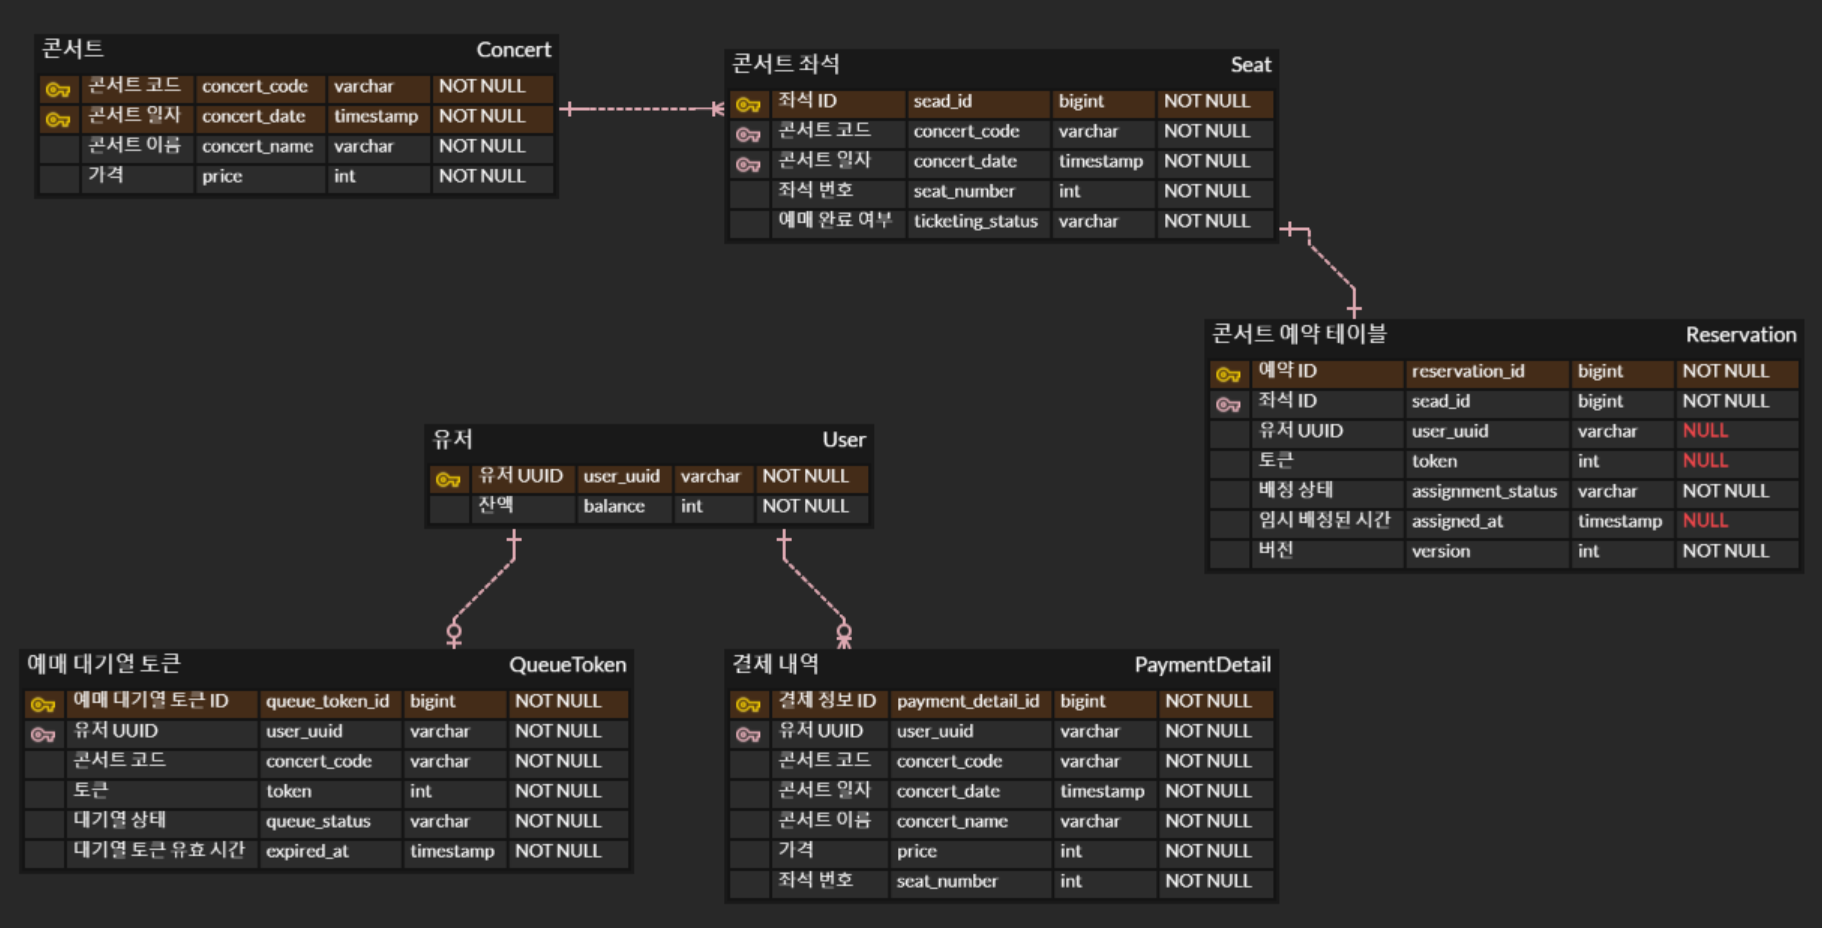
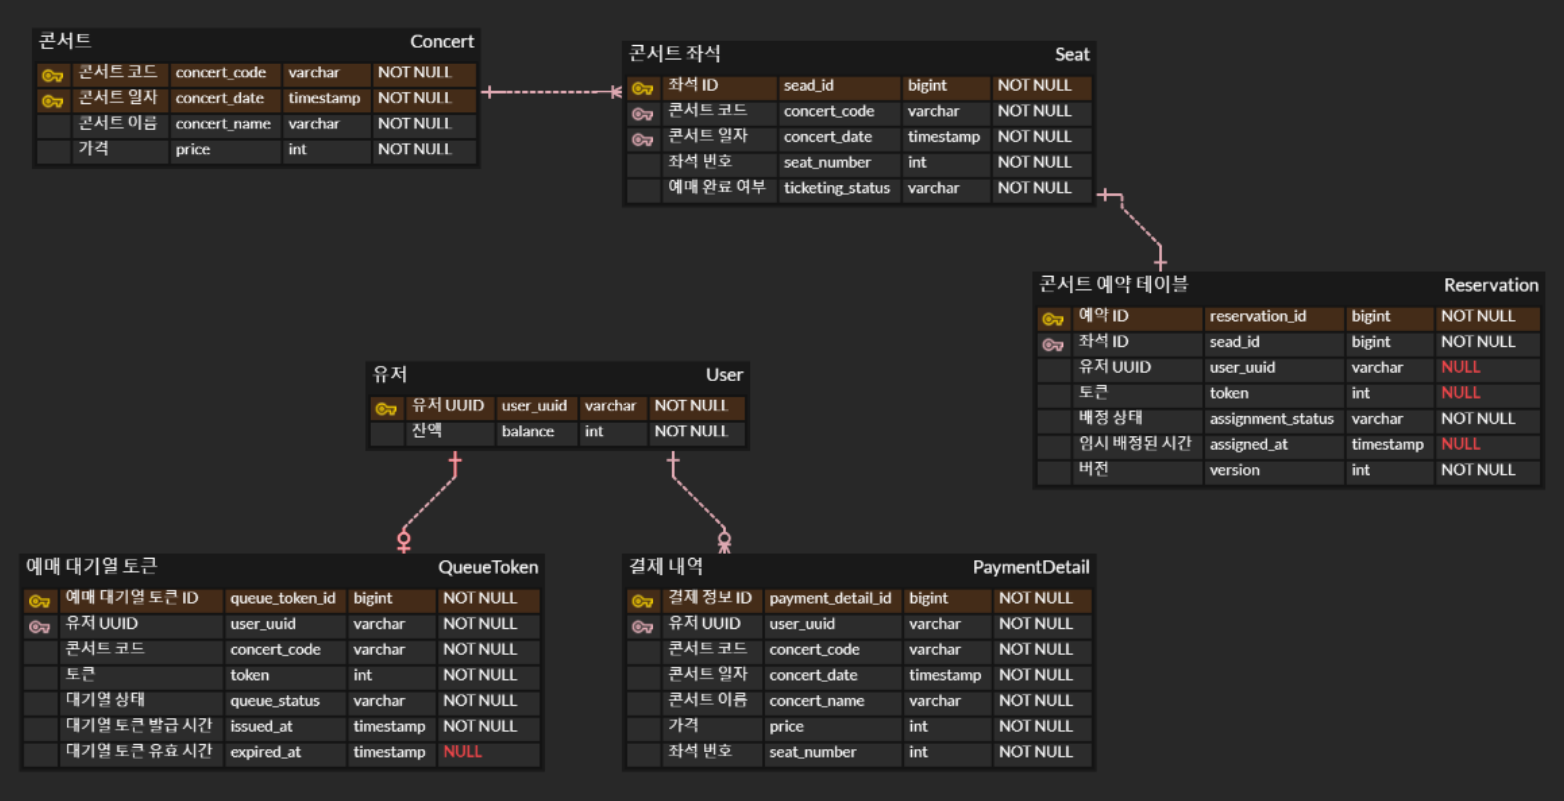
수정

diff --git a/chapter2/ticketing/src/main/java/com/example/ticketing/api/payment/usecase/PayUseCase.java b/chapter2/ticketing/src/main/java/com/example/ticketing/api/payment/usecase/PayUseCase.java
@@ -5,8 +5,10 @@ import com.example.ticketing.domain.concert.component.ConcertReservationReader;
 import com.example.ticketing.domain.concert.component.ConcertReservationValidator;
 import com.example.ticketing.domain.concert.entity.Concert;
 import com.example.ticketing.domain.concert.entity.Reservation;
+import com.example.ticketing.domain.concert.entity.Seat;
 import com.example.ticketing.domain.payment.component.PaymentDetailStore;
 import com.example.ticketing.domain.payment.entity.PaymentDetail;
+import com.example.ticketing.domain.token.component.QueueTokenStore;
 import com.example.ticketing.domain.user.component.UserReader;
 import com.example.ticketing.domain.user.component.UserValidator;
 import com.example.ticketing.domain.user.entity.User;
@@ -24,6 +26,7 @@ public class PayUseCase {
     private final ConcertReservationReader concertReservationReader;
     private final ConcertReservationValidator concertReservationValidator;
     private final PaymentDetailStore paymentDetailStore;
+    private final QueueTokenStore queueTokenStore;
 
     public PaymentDetailResponse execute(String userUUID) {
         // 1. 유저 존재 여부 체크
@@ -33,10 +36,15 @@ public class PayUseCase {
         // 3. 임시 배정된 시간이 만료되었는지 체크
         concertReservationValidator.isExpired(findReservation.getAssignedAt());
         // 4. 콘서트 가격과 잔액 비교
-        Concert findConcert = findReservation.getSeat().getConcert();
+        Seat findSeat = findReservation.getSeat();
+        Concert findConcert = findSeat.getConcert();
         userValidator.isLessThanPrice(findConcert.getPrice(), findUser.getBalance());
         // 5. 결제 진행
         PaymentDetail savePaymentDetail = paymentDetailStore.savePaymentDetail(PaymentDetail.createPaymentDetail(findUser, findConcert, findReservation));
+        // 6. 좌석 예매 완료 처리
+        findSeat.ticketingComplete();
+        // 7. 대기열 토큰 제거
+        queueTokenStore.removeQueueToken(findUser.getQueueToken());
 
         return PaymentDetailResponse.convert(savePaymentDetail);
     }

diff --git a/chapter2/ticketing/src/main/java/com/example/ticketing/api/concert/usecase/ReserveSeatUseCase.java b/chapter2/ticketing/src/main/java/com/example/ticketing/api/concert/usecase/ReserveSeatUseCase.java
@@ -2,7 +2,9 @@ package com.example.ticketing.api.concert.usecase;
 
 import com.example.ticketing.api.concert.dto.ReservationResponse;
 import com.example.ticketing.domain.concert.component.ConcertReader;
+import com.example.ticketing.domain.concert.component.ConcertReservationValidator;
 import com.example.ticketing.domain.concert.component.ConcertSeatReader;
+import com.example.ticketing.domain.concert.entity.Reservation;
 import com.example.ticketing.domain.concert.entity.Seat;
 import lombok.RequiredArgsConstructor;
 import org.springframework.stereotype.Service;
@@ -17,6 +19,7 @@ public class ReserveSeatUseCase {
 
     private final ConcertReader concertReader;
     private final ConcertSeatReader concertSeatReader;
+    private final ConcertReservationValidator concertReservationValidator;
 
     /**
      * 좌석 임시 배정
@@ -26,8 +29,11 @@ public class ReserveSeatUseCase {
         concertReader.findByConcertCodeAndDate(concertCode, concertDate);
         // 2. 좌석 존재 여부 및 예매 가능한 좌석인지 체크
         Seat findNotCompletedSeat = concertSeatReader.findNotCompletedSeat(concertCode, concertDate, seatNumber);
+        // 3. 예약이 가능한 좌석인지 체크
+        Reservation findReservation = findNotCompletedSeat.getReservation();
+        concertReservationValidator.isAvailableReservation(findReservation.getAssignedAt());
         // 3. 좌석 임시 배정
-        LocalDateTime assignedAt = findNotCompletedSeat.getReservation().assignment(userUUID, token);
+        LocalDateTime assignedAt = findReservation.assignment(userUUID, token); // Transaction 종료시 OptimisticLockException 발생 -> try-catch 필요
 
         return ReservationResponse.convert(concertCode, concertDate, seatNumber, assignedAt);
     }

diff --git a/chapter2/ticketing/src/main/java/com/example/ticketing/domain/token/entity/QueueToken.java b/chapter2/ticketing/src/main/java/com/example/ticketing/domain/token/entity/QueueToken.java
@@ -17,7 +17,7 @@ public class QueueToken {
     @GeneratedValue(strategy = GenerationType.IDENTITY)
     private Long queueTokenId;
 
-    @ManyToOne(fetch = FetchType.LAZY)
+    @OneToOne(fetch = FetchType.LAZY)
     private User user;
 
     @Column
@@ -29,25 +29,29 @@ public class QueueToken {
     @Column
     @Enumerated(value = EnumType.STRING)
     private QueueStatus status;
-    
+
+    @Column
+    private LocalDateTime issuedAt;
+
     @Column
     private LocalDateTime expiredAt;
 
     @Builder
-    public QueueToken(Long queueTokenId, User user, String concertCode, int token, QueueStatus status, LocalDateTime expiredAt) {
+    public QueueToken(Long queueTokenId, User user, String concertCode, int token, QueueStatus status, LocalDateTime issuedAt, LocalDateTime expiredAt) {
         this.queueTokenId = queueTokenId;
         this.user = user;
         this.concertCode = concertCode;
         this.token = token;
         this.status = status;
+        this.issuedAt = issuedAt;
         this.expiredAt = expiredAt;
     }
 
     public static QueueToken createQueueToken(String concertCode, User user) {
-        LocalDateTime expiredAt = LocalDateTime.now().plusMinutes(10);
+        LocalDateTime issuedAt = LocalDateTime.now();
 
         int token = user.getUserUUID().hashCode();
-        token = 31 * token + expiredAt.hashCode();
+        token = 31 * token + issuedAt.hashCode();
         token = 31 * token + concertCode.hashCode();
 
         return QueueToken.builder()
@@ -55,7 +59,7 @@ public class QueueToken {
                 .concertCode(concertCode)
                 .token(token)
                 .status(QueueStatus.WAITING)
-                .expiredAt(expiredAt)
+                .issuedAt(issuedAt)
                 .build();
     }
 }

diff --git a/chapter2/ticketing/src/test/java/com/example/ticketing/domain/token/component/QueueTokenStoreTest.java b/chapter2/ticketing/src/test/java/com/example/ticketing/domain/token/component/QueueTokenStoreTest.java
@@ -27,10 +27,10 @@ class QueueTokenStoreTest {
         //given
         String concertCode = "IU_BLUEMING_001";
         String userUUID = "1e9ebe68-045a-49f1-876e-a6ea6380dd5c";
-        LocalDateTime expiredAt = LocalDateTime.now().plusMinutes(10);
+        LocalDateTime issuedAt = LocalDateTime.now();
 
         int token = userUUID.hashCode();
-        token = 31 * token + expiredAt.hashCode();
+        token = 31 * token + issuedAt.hashCode();
         token = 31 * token + concertCode.hashCode();
 
         QueueToken createQueueToken = QueueToken.builder()
@@ -39,7 +39,7 @@ class QueueTokenStoreTest {
                 .concertCode(concertCode)
                 .token(token)
                 .status(QueueStatus.WAITING)
-                .expiredAt(expiredAt)
+                .issuedAt(issuedAt)
                 .build();
 
         //when
@@ -51,6 +51,6 @@ class QueueTokenStoreTest {
         assertThat(result.getConcertCode()).isEqualTo(concertCode);
         assertThat(result.getToken()).isEqualTo(token);
         assertThat(result.getStatus()).isEqualTo(QueueStatus.WAITING);
-        assertThat(result.getExpiredAt()).isEqualTo(expiredAt);
+        assertThat(result.getIssuedAt()).isEqualTo(issuedAt);
     }
 }

diff --git a/chapter2/ticketing/src/test/java/com/example/ticketing/domain/token/repository/StubQueueTokenReaderRepository.java b/chapter2/ticketing/src/test/java/com/example/ticketing/domain/token/repository/StubQueueTokenReaderRepository.java
@@ -13,11 +13,11 @@ public class StubQueueTokenReaderRepository implements QueueTokenReaderRepositor
         if (!userUUID.equals("1e9ebe68-045a-49f1-876e-a6ea6380dd5c")) return Optional.empty(); // fake 일까?
 
         String concertCode = "IU_BLUEMING_001";
-        LocalDateTime expiredAt = LocalDateTime.of(2024, 4, 11, 13, 20, 35).plusMinutes(10);
+        LocalDateTime issuedAt = LocalDateTime.of(2024, 4, 11, 13, 20, 35);
 
 
         int token = userUUID.hashCode();
-        token = 31 * token + expiredAt.hashCode();
+        token = 31 * token + issuedAt.hashCode();
         token = 31 * token + concertCode.hashCode();
 
         return Optional.of(
@@ -27,7 +27,7 @@ public class StubQueueTokenReaderRepository implements QueueTokenReaderRepositor
                         .concertCode(concertCode)
                         .token(token)
                         .status(QueueStatus.IN_PROGRESS)
-                        .expiredAt(expiredAt)
+                        .issuedAt(issuedAt)
                         .build()
         );
     }

diff --git a/chapter2/ticketing/src/test/java/com/example/ticketing/domain/token/repository/StubQueueTokenStoreRepository.java b/chapter2/ticketing/src/test/java/com/example/ticketing/domain/token/repository/StubQueueTokenStoreRepository.java
@@ -11,10 +11,10 @@ public class StubQueueTokenStoreRepository implements QueueTokenStoreRepository 
     public QueueToken save(QueueToken createQueueToken) {
         String concertCode = "IU_BLUEMING_001";
         String userUUID = "1e9ebe68-045a-49f1-876e-a6ea6380dd5c";
-        LocalDateTime expiredAt = createQueueToken.getExpiredAt();
+        LocalDateTime issuedAt = createQueueToken.getIssuedAt();
 
         int token = userUUID.hashCode();
-        token = 31 * token + expiredAt.hashCode();
+        token = 31 * token + issuedAt.hashCode();
         token = 31 * token + concertCode.hashCode();
 
 
@@ -24,7 +24,12 @@ public class StubQueueTokenStoreRepository implements QueueTokenStoreRepository 
                 .concertCode(concertCode)
                 .token(token)
                 .status(QueueStatus.WAITING)
-                .expiredAt(expiredAt)
+                .issuedAt(issuedAt)
                 .build();
+    }
+
+    @Override
+    public void delete(QueueToken target) {
+
     }
 }

diff --git a/chapter2/ticketing/src/test/java/com/example/ticketing/domain/token/component/QueueTokenReaderTest.java b/chapter2/ticketing/src/test/java/com/example/ticketing/domain/token/component/QueueTokenReaderTest.java
@@ -27,10 +27,10 @@ class QueueTokenReaderTest {
         //given
         String concertCode = "IU_BLUEMING_001";
         String userUUID = "1e9ebe68-045a-49f1-876e-a6ea6380dd5c";
-        LocalDateTime expiredAt = LocalDateTime.of(2024, 4, 11, 13, 20, 35).plusMinutes(10);
+        LocalDateTime issuedAt = LocalDateTime.of(2024, 4, 11, 13, 20, 35);
 
         int token = userUUID.hashCode();
-        token = 31 * token + expiredAt.hashCode();
+        token = 31 * token + issuedAt.hashCode();
         token = 31 * token + concertCode.hashCode();
 
         //when
@@ -42,6 +42,6 @@ class QueueTokenReaderTest {
         assertThat(findQueueToken.getConcertCode()).isEqualTo("IU_BLUEMING_001");
         assertThat(findQueueToken.getToken()).isEqualTo(token);
         assertThat(findQueueToken.getStatus()).isEqualTo(QueueStatus.IN_PROGRESS);
-        assertThat(findQueueToken.getExpiredAt()).isEqualTo(expiredAt);
+        assertThat(findQueueToken.getIssuedAt()).isEqualTo(issuedAt);
     }
 }

diff --git a/chapter2/ticketing/src/main/java/com/example/ticketing/api/payment/controller/PaymentController.java b/chapter2/ticketing/src/main/java/com/example/ticketing/api/payment/controller/PaymentController.java
@@ -14,14 +14,12 @@ import java.time.format.DateTimeFormatter;
 @RequestMapping("/api/v1/payments")
 public class PaymentController {
 
-    private final DateTimeFormatter formatter = DateTimeFormatter.ofPattern("yyyy-MM-dd HH:mm:ss");
-
     @PostMapping
     public ResponseEntity<ConcertApiResponse<?>> payment(
             @RequestHeader("Authorization") int token,
             @RequestBody String userUUID
     ) {
-        String concertDate = LocalDateTime.of(2024, 4, 20, 15, 0, 0).format(formatter);
+        LocalDateTime concertDate = LocalDateTime.of(2024, 4, 20, 15, 0, 0);
         PaymentDetailResponse result = new PaymentDetailResponse(userUUID, "아이유 블루밍 콘서트", concertDate, 25, 50000);
 
         return ResponseEntity.ok(ConcertApiResponse.of(result));

diff --git a/chapter2/ticketing/src/main/java/com/example/ticketing/domain/user/entity/User.java b/chapter2/ticketing/src/main/java/com/example/ticketing/domain/user/entity/User.java
@@ -1,9 +1,7 @@
 package com.example.ticketing.domain.user.entity;
 
-import jakarta.persistence.Column;
-import jakarta.persistence.Entity;
-import jakarta.persistence.Id;
-import jakarta.persistence.Table;
+import com.example.ticketing.domain.token.entity.QueueToken;
+import jakarta.persistence.*;
 import lombok.AccessLevel;
 import lombok.Builder;
 import lombok.Getter;
@@ -21,6 +19,9 @@ public class User {
 
     @Column
     private int balance;
+
+    @OneToOne(mappedBy = "user")
+    private QueueToken queueToken;
 
     @Builder
     public User(String userUUID, int balance) {

diff --git a/chapter2/ticketing/src/test/java/com/example/ticketing/domain/concert/component/ConcertReservationModifierTest.java b/chapter2/ticketing/src/test/java/com/example/ticketing/domain/concert/component/ConcertReservationModifierTest.java
@@ -29,10 +29,10 @@ class ConcertReservationModifierTest {
 
         String userUUID = "1e9ebe68-045a-49f1-876e-a6ea6380dd5c";
         String concertCode = "IU_BLUEMING_001";
-        LocalDateTime expiredAt = LocalDateTime.of(2024, 4, 11, 13, 20, 35).plusMinutes(10);
+        LocalDateTime issuedAt = LocalDateTime.of(2024, 4, 11, 13, 20, 35);
 
         int token = userUUID.hashCode();
-        token = 31 * token + expiredAt.hashCode();
+        token = 31 * token + issuedAt.hashCode();
         token = 31 * token + concertCode.hashCode();
 
         //when

diff --git a/chapter2/ticketing/src/main/java/com/example/ticketing/domain/concert/component/ConcertReservationValidator.java b/chapter2/ticketing/src/main/java/com/example/ticketing/domain/concert/component/ConcertReservationValidator.java
@@ -13,4 +13,13 @@ public class ConcertReservationValidator {
         }
     }
 
+    /**
+     * assignedAt이 현재 시간보다 이후 시간이라면 임시 배정할 수 없는 좌석
+     */
+    public void isAvailableReservation(LocalDateTime assignedAt) {
+        if (assignedAt != null && assignedAt.isAfter(LocalDateTime.now())) {
+            throw new RuntimeException("임시 배정을 진행할 수 없는 좌석입니다.");
+        }
+    }
+
 }

diff --git a/chapter2/ticketing/src/main/java/com/example/ticketing/domain/concert/component/ConcertReservationModifier.java b/chapter2/ticketing/src/main/java/com/example/ticketing/domain/concert/component/ConcertReservationModifier.java
@@ -17,6 +17,7 @@ public class ConcertReservationModifier {
 
     /**
      * 좌석 예매 요청 - 좌석 임시 배정
+     * TODO [AssignmentStatus 제거 및 Validator의 isAvaliableReservation 활용]
      */
     public Reservation reserveSeat(Long seatId, String userUUID, int token) {
         Reservation findReservation = readerRepository.findNotAssignedBySeatId(seatId, AssignmentStatus.NOT_BE_ASSIGNED)
